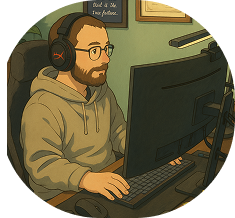
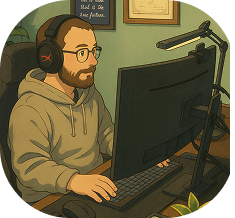
chore: improve image and fix mobile menu

diff --git a/src/components/side-bar/mobile-menu.tsx b/src/components/side-bar/mobile-menu.tsx
@@ -17,7 +17,7 @@ export const MobileMenu = ({ setOpen }: MobileMenuProps) => {
     { id: "home", title: "Home" },
     { id: "about", title: "About me" },
     { id: "projects", title: "Projects" },
-    { id: "resume", title: "Resume" },
+    // { id: "resume", title: "Resume" },
   ];
 
   const { activeSection, scrollToSection } = useScroll();
@@ -27,7 +27,7 @@ export const MobileMenu = ({ setOpen }: MobileMenuProps) => {
       <div className="flex lg:hidden w-full flex-col p-6 items-center gap-3 text-white">
         <img
           className="w-36 h-36"
-          src="/images/face.png"
+          src="/images/face-image.png"
           alt="filip-ivanusec"
         />
         <span className="lg:text-2xl text-md font-extrabold">

diff --git a/src/header/header.tsx b/src/header/header.tsx
@@ -21,7 +21,7 @@ export function Header() {
         </div>
         <div
           className={clsx(
-            "fixed h-screen w-full -left-[400px] top-20 z-30 bg-primary transition-all duration-500 lg:hidden",
+            "fixed h-screen w-full -left-[400px] md:-left-[800px] top-20 z-30 bg-primary transition-all duration-500 lg:hidden",
             isOpen && "left-0",
           )}
         >

diff --git a/src/components/side-bar/side-bar.tsx b/src/components/side-bar/side-bar.tsx
@@ -20,7 +20,7 @@ export function SideBar() {
     <aside className="hidden sticky flex-col h-screen w-sm bg-primary white lg:flex">
       <div className="flex w-full flex-col p-8 items-center gap-10 text-white">
         <img
-          className="w-52 h-52"
+          className="w-52 h-52 object-cover"
           src="/images/face-image.png"
           alt="filip-ivanusec"
         />
